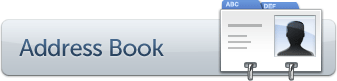
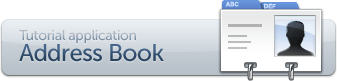
Fixes #2649: Rearrange package index.html.
svn changeset:6922 branch:trunk

Changed region(s): [[0.0593, 0.3704, 0.5045, 0.7654]]

diff --git a/WebContent/index.html b/WebContent/index.html
@@ -15,13 +15,8 @@
 		
 		var itmill = function() {
 		
-			var isIE = /MSIE/.test(navigator.userAgent) && !window.opera;
 			var packageContent;
 			var package;
-			var demoArea;
-			var demos;
-			var additionalDemos;
-			var additionalDemosContent;
 		
 			return {
 			
@@ -105,24 +100,31 @@
 				<h4>IT Mill Toolkit Sampler</h4>
 				<p><a href="sampler/" title="Open Sampler">Sampler</a> contains examples of most features, as well as combination examples and useful UI patterns that you can use simply by copy-pasting the code.</p>
 				
-				<h4 id="address-book"><a class="demoapp" href="AddressBook/" title="Open Address Book">Address Book</a></h4>
-				<h4>Address Book application</h4>
-				<p>A basic application for managing your contact informations. See the accompanying tutorial and learn how to build the same application.</p>
+				<h4>Additional demos</h4>
+				<ul><li><a class="demoapp" href="Reservr">Reservr &ndash; reservation application</a> &nbsp; (<a href="doc/example-source/com/itmill/toolkit/demo/reservation">sources</a>)</li>
+					<li><a class="demoapp" href="ToolkitTunesLayout/">ToolkitTunes &ndash; advanced layout &amp; theme</a> &nbsp; (<a href="doc/example-source/com/itmill/toolkit/demo/ToolkitTunesLayout.java.html">sources</a>)</li>
+					<li><a class="demoapp" href="Coverflow/">Coverflow &ndash; Flex integration</a> &nbsp; (<a href="doc/example-source/com/itmill/toolkit/demo/coverflow">sources</a>)</li>
+				</ul>
+				
+				
+				<h2 class="tutorial">Tutorial and Examples</h2>
+				
+				<h4 id="address-book">Address Book tutorial</h4>
+				<p>Read the step-by-step tutorial and learn how to build a simple contacts management application.</p>
 				<ul class="links">
 					<li><a href="http://itmill.com/documentation/itmill-toolkit-5-tutorial/" class="more">Step-by-step tutorial</a></li>
+					<li><a href="AddressBook/" class="more">See Address Book application</a></li>
 				</ul>
 				
 				
 				
 					
-				<h4>Additional demos</h4>
-				<p>Below is a collection of stand-alone demo applications that will help you get started with development.</p>
+				<h4>More Examples</h4>
+				<p>Below is a collection of stand-alone demo applications that will help you get started with the actual Toolkit code.</p>
 				<ul>
 					<li><a class="demoapp" href="HelloWorld/">Hello world</a> &nbsp; (<a href="doc/example-source/com/itmill/toolkit/demo/HelloWorld.java.html">sources</a>)</li>
 					<li><a class="demoapp" href="Calc/">Calculator</a> &nbsp; (<a href="doc/example-source/com/itmill/toolkit/demo/Calc.java.html">sources</a>)</li>
-					<li><a class="demoapp" href="Reservr">Reservr &ndash; reservation application</a> &nbsp; (<a href="doc/example-source/com/itmill/toolkit/demo/reservation">sources</a>)</li>
-					<li><a class="demoapp" href="Coverflow/">Coverflow &ndash; Flex integration</a> &nbsp; (<a href="doc/example-source/com/itmill/toolkit/demo/coverflow">sources</a>)</li>
-					<li><a class="demoapp" href="ToolkitTunesLayout/">ToolkitTunes &ndash; advanced layout &amp; theme</a> &nbsp; (<a href="doc/example-source/com/itmill/toolkit/demo/ToolkitTunesLayout.java.html">sources</a>)</li>
+					<li><a class="demoapp" href="colorpicker">Colorpicker &ndash; creating new widgets</a> &nbsp; (<a href="doc/example-source/com/itmill/toolkit/demo/colorpicker">sources</a>)</li>
 				</ul>
 					
 			</div> <!-- /demos -->

diff --git a/WebContent/demo/css/styles.css b/WebContent/demo/css/styles.css
@@ -184,8 +184,12 @@ a[name]:hover {
 #demos h2 {
 	background: transparent url(../img/icon-eye.png) no-repeat;
 }
+#demos h2.tutorial {
+	margin-top: 1.4em;
+}
 #support-licensing h2 {
 	background: transparent url(../img/icon-doc.png) no-repeat;
+	margin-top: 1em;
 }
 
 #getting-started,
@@ -195,13 +199,21 @@ a[name]:hover {
 }
 
 #getting-started,
-#support-licensing {
+#support-licensing,
+#package-contents,
+#feedback {
 	width: 340px;
+	float: right;
+	clear: right;
+}
+#package-contents,
+#feedback {
+	width: 300px;
 }
 
 #demos {
 	width: 335px;
-	float: right;
+	float: left;
 }
 
 #getting-started h4,
@@ -217,7 +229,8 @@ a[name]:hover {
 	margin: 0 0 1em 0;
 }
 
-.links {
+.links,
+#demos ul.links {
 	list-style: none;
 	padding: 0;
 	margin: -1em 0 1em 0;
@@ -261,11 +274,12 @@ a[name]:hover {
 	left: 140px;
 }
 
-
 #demos #address-book {
 	width: 337px;
 	height: 81px;
 	background: transparent url(../img/address-book-btn.png) no-repeat;
+	text-indent: -9000px;
+	margin: 0 0 0.8em 0;
 }
 
 #address-book a {
@@ -274,6 +288,11 @@ a[name]:hover {
 	height: 81px;
 	text-indent: -90000px;
 	outline: none;
+}
+
+#demos ul {
+	margin: 0.2em 0 1em 0;
+	padding-left: 1.5em;
 }
 
 
@@ -356,22 +375,6 @@ a[name]:hover {
 #package-contents .support {
 	clear: left;
 	padding-top: 1.5em;
-}
-
-
-
-/* additional demos */
-
-#additional-demos {
-	clear: left;
-	font-size: 1em;
-	margin-top: 10px;
-}
-
-#additional-demos h3 {
-	font-size: 1.1em;
-	margin: 4px 0 5px 0;
-	color: #5b7b93;
 }
 
 
